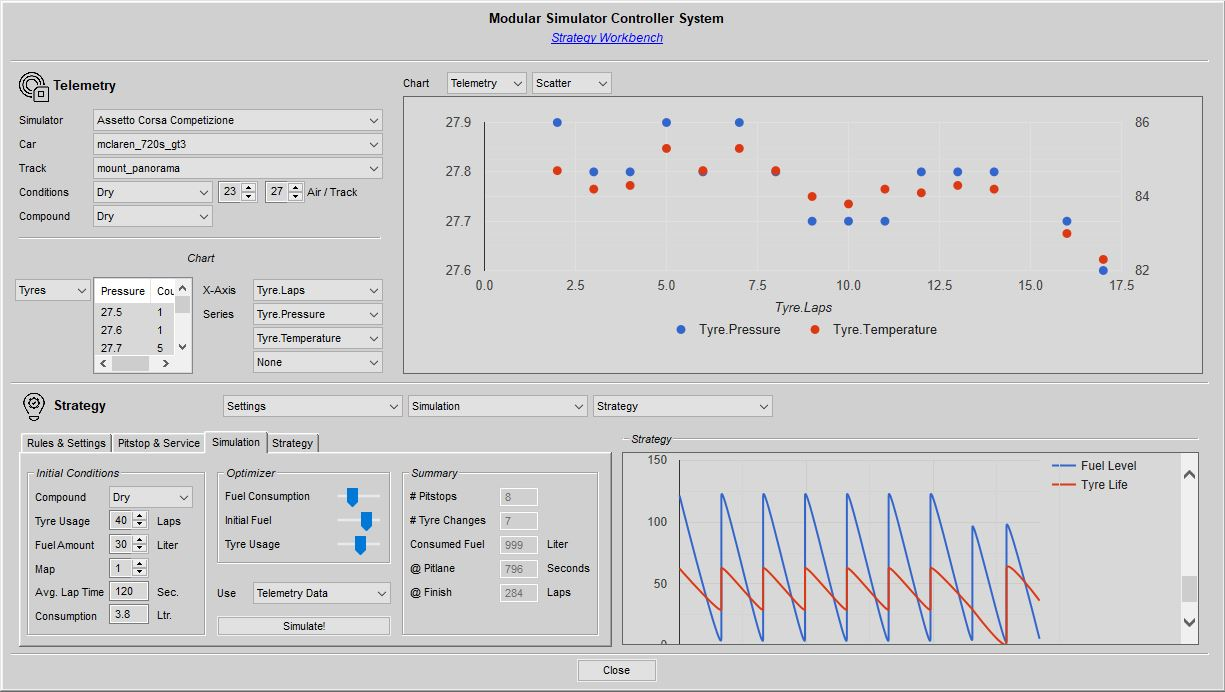
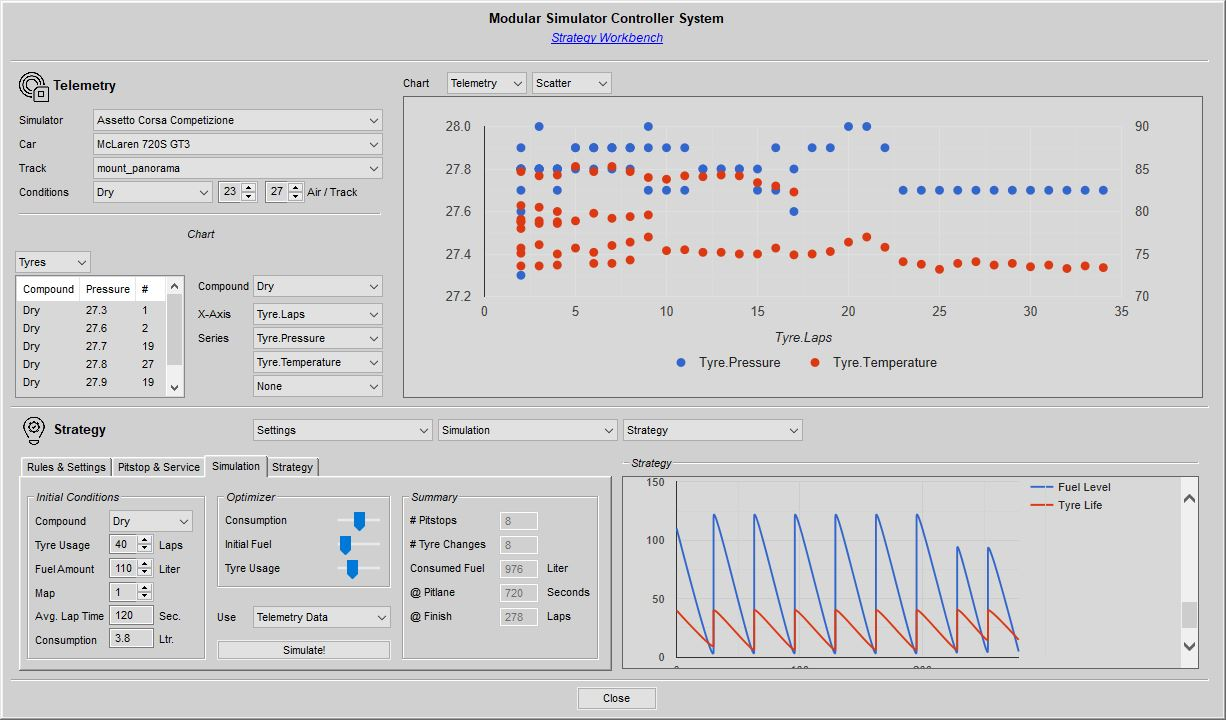
Documentation Update

diff --git a/Docs/Virtual Race Strategist.md b/Docs/Virtual Race Strategist.md
@@ -167,7 +167,11 @@ Another valuable tool, which is supported by Cato is the "Strategy Workbench". W
 
 ![](https://github.com/SeriousOldMan/Simulator-Controller/blob/main/Docs/Images/Strategy%20Workbench.JPG)
 
-The "Strategy Workbench" is divided into two main areas. The upper area allows you to analyze the available telemetry information for a given car / track / conditions combination using several available graphical charts. Telemetry information are divided into an *Electronics* and *Tyres* group. In each group you can select up to four different series of values that are to be plotted against each other in the chart.
+The "Strategy Workbench" is divided into two main areas. The upper area allows you to analyze the available telemetry information for a given car / track / conditions combination using several available graphical charts. Telemetry information are divided into an *Electronics* and *Tyres* group.
+
+![](https://github.com/SeriousOldMan/Simulator-Controller/blob/main/Docs/Images/Strategy%20Chart%20Selector.JPG)
+
+Each group provide data sets for all tyre compounds which have been used in the seelected conditions. You can choose between the different tyre compounds and you can select up to four different series of values that are to be plotted against each other in the chart.
 
 The lower area allows you to create a race strategy. You have to enter the race rules and various settings before you can use the simulation tool to create the required pitstops based partly on your entered settings and also on the telemetry information. In the lower left part of the window, you find a tabbed pane with several input sections.
 
